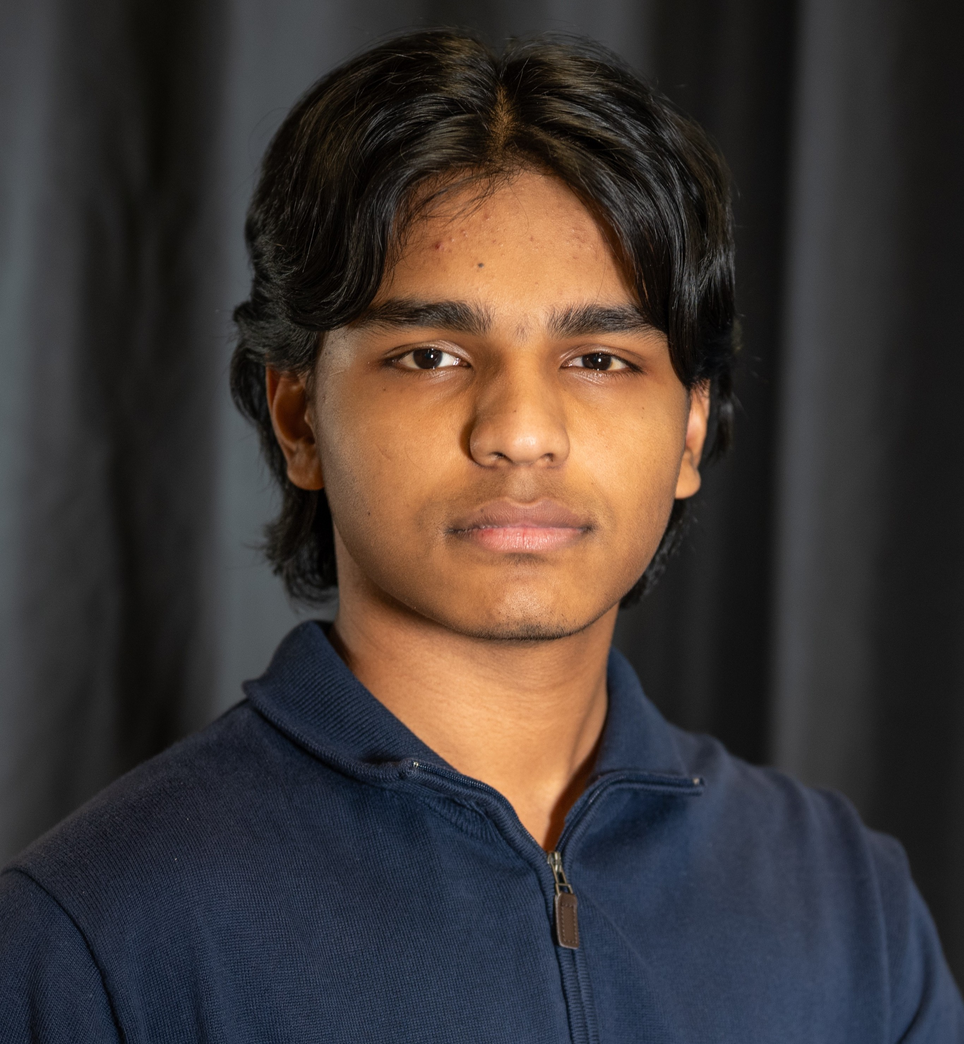
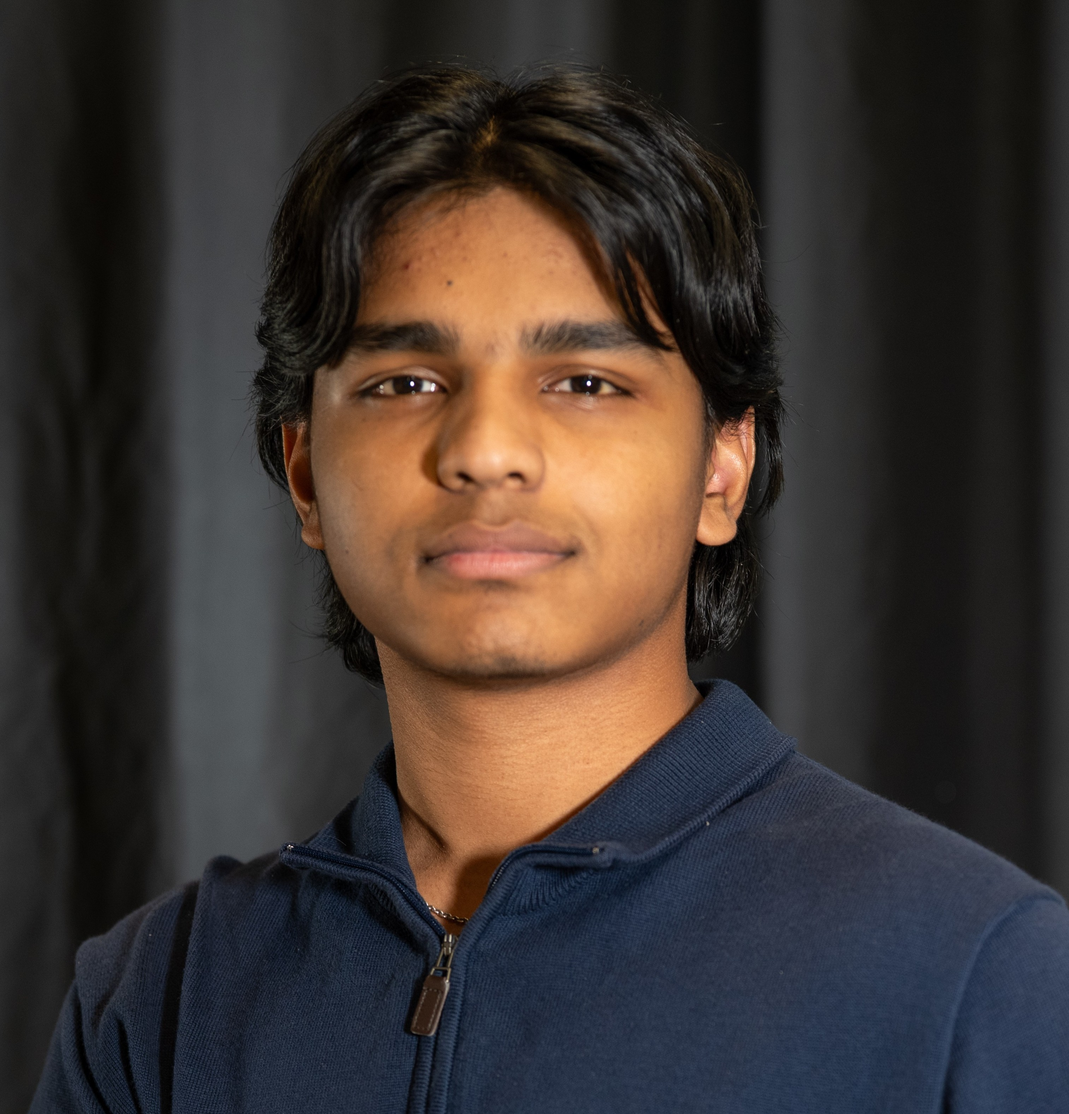
New Images

diff --git a/src/components/ImageSlider.jsx b/src/components/ImageSlider.jsx
@@ -1,4 +1,4 @@
-import { useState } from "react"
+import { useState, useEffect } from "react"
 
 export default function ImageSlider({ slides }) {
     const [currentIndex, setCurrentIndex] = useState(0)
@@ -6,7 +6,7 @@ export default function ImageSlider({ slides }) {
     const sliderStyles = {
         overflow: 'hidden',
         width: '100%',
-        height: '100%',
+        height: '750px',
         position: 'relative'
     }
 
@@ -57,6 +57,16 @@ export default function ImageSlider({ slides }) {
         const newIndex = isLastSlide ? 0 : currentIndex + 1
         setCurrentIndex(newIndex)
     }
+
+    useEffect(() => {
+    const interval = setInterval(() => {
+        setCurrentIndex((prevIndex) =>
+            prevIndex === slides.length - 1 ? 0 : prevIndex + 1
+        )
+    }, 3000)
+
+    return () => clearInterval(interval)
+}, [])
 
     return (
         <div style={sliderStyles}>

diff --git a/src/components/Home.jsx b/src/components/Home.jsx
@@ -6,9 +6,13 @@ import Skills from "./Skills.jsx"
 export default function Home() {
     // An array of slide objects
     const slides = [
-        {url: '/BAI.jpg', title: 'Bloomberg Arts Internship'},
+        {url: '/AMAZON.jpeg', title: 'Amazon Future Engineer'},
+        {url: '/CONGRESS.jpg', title: 'Congressional App Challenge NY-06 Winner'},
         {url: '/APPLE.jpg', title: 'NYCPS Student App Design Challenge'},
-        {url: '/SKILLS.jpg', title: 'Skills USA'}
+        {url: '/BAI.jpg', title: 'Bloomberg Arts Internship'},
+        {url: '/SKILLS.jpg', title: 'Skills USA'},
+        {url: '/AWARDS.jpg', title: 'Senior Awards Night'},
+        {url: '/NTHS.jpg', title: 'National Technical Honor Society Induction Ceremony'}
     ]
 
     return(

diff --git a/src/App.jsx b/src/App.jsx
@@ -21,6 +21,7 @@ function App() {
 
         <Route path='/Projects' element={
           <div className='flex flex-wrap gap-2 justify-center'>
+            <Project name="Marble Mania" link="https://prod.game-u.dev/community/project/7603"/>
             <Project name="Loved Pets Animal Shelter" link="https://towafh.github.io/Animal-Shelter/"/>
             <Project name="Whisp" link="https://whisp-three.vercel.app/"/>
             <Project name="MedPocket" link="https://thomas-a-edison-cte-hs.github.io/iAmsterdam/index.html"/>

diff --git a/src/components/Resume.jsx b/src/components/Resume.jsx
@@ -1,6 +1,6 @@
 export default function Resume() {
     return (
-        <div className="flex justify-center m-0">
+        <div className="flex justify-center m-0 h-300">
             <img src="./resume.png" />
         </div>
     )
